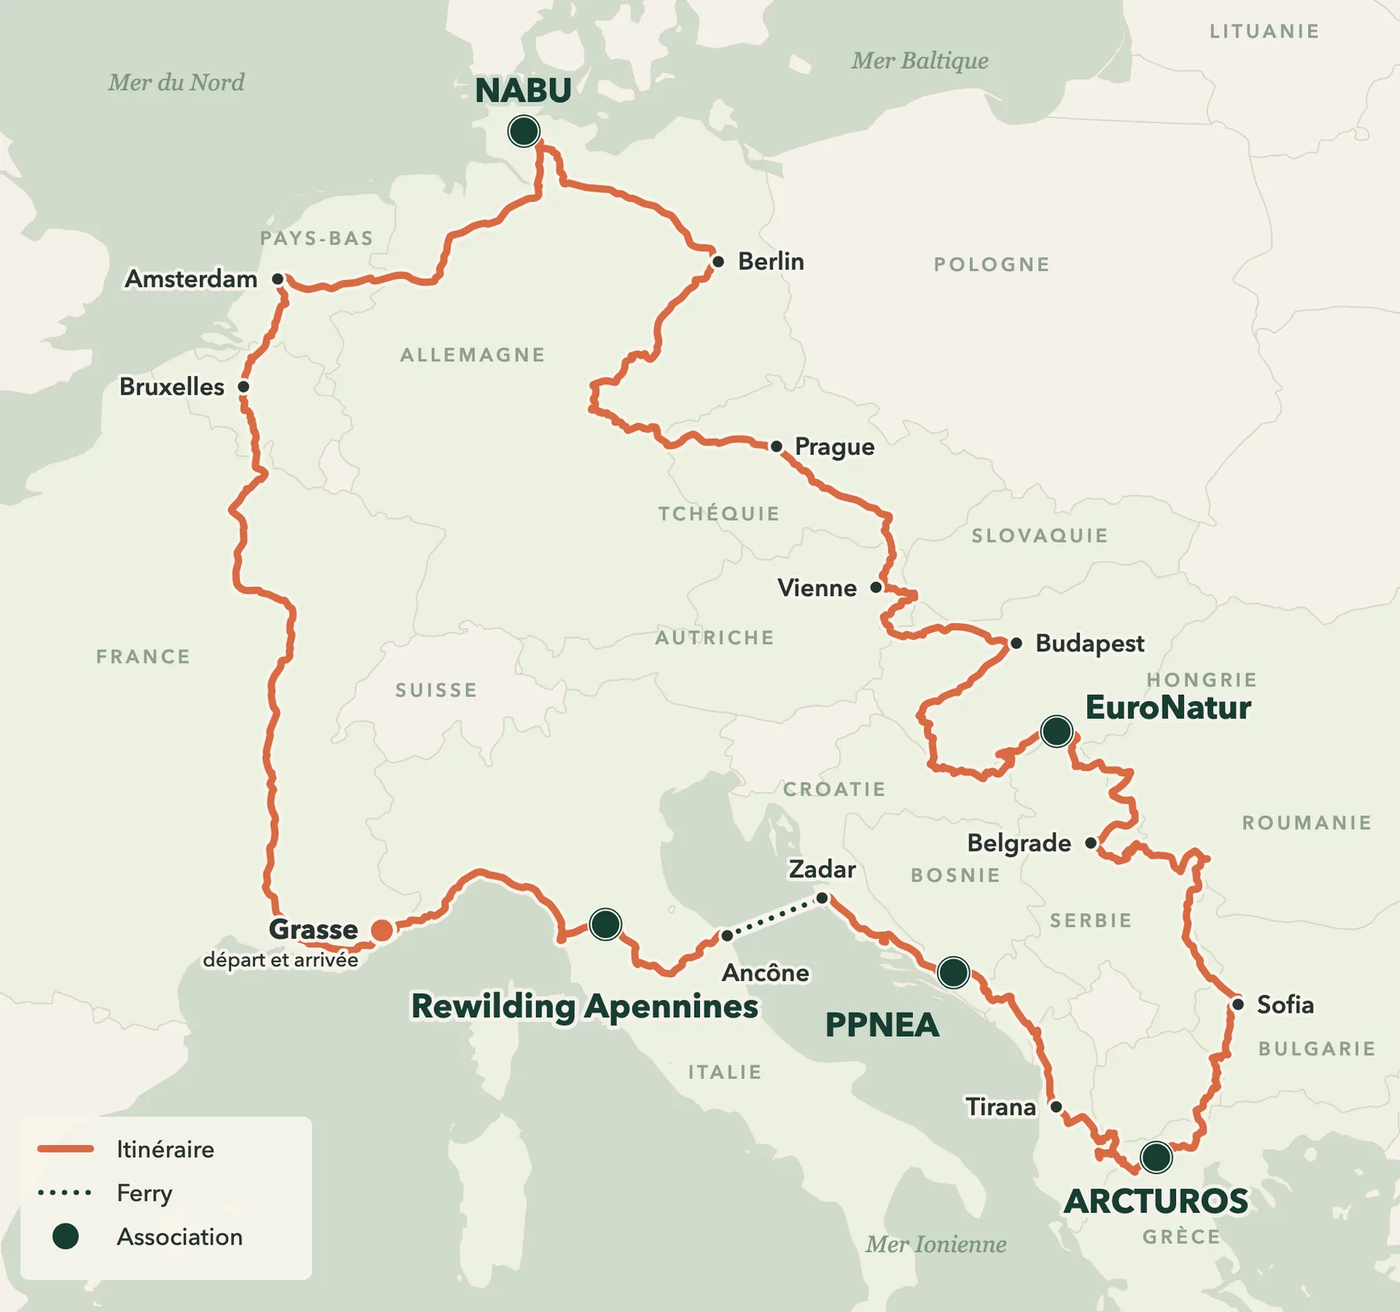
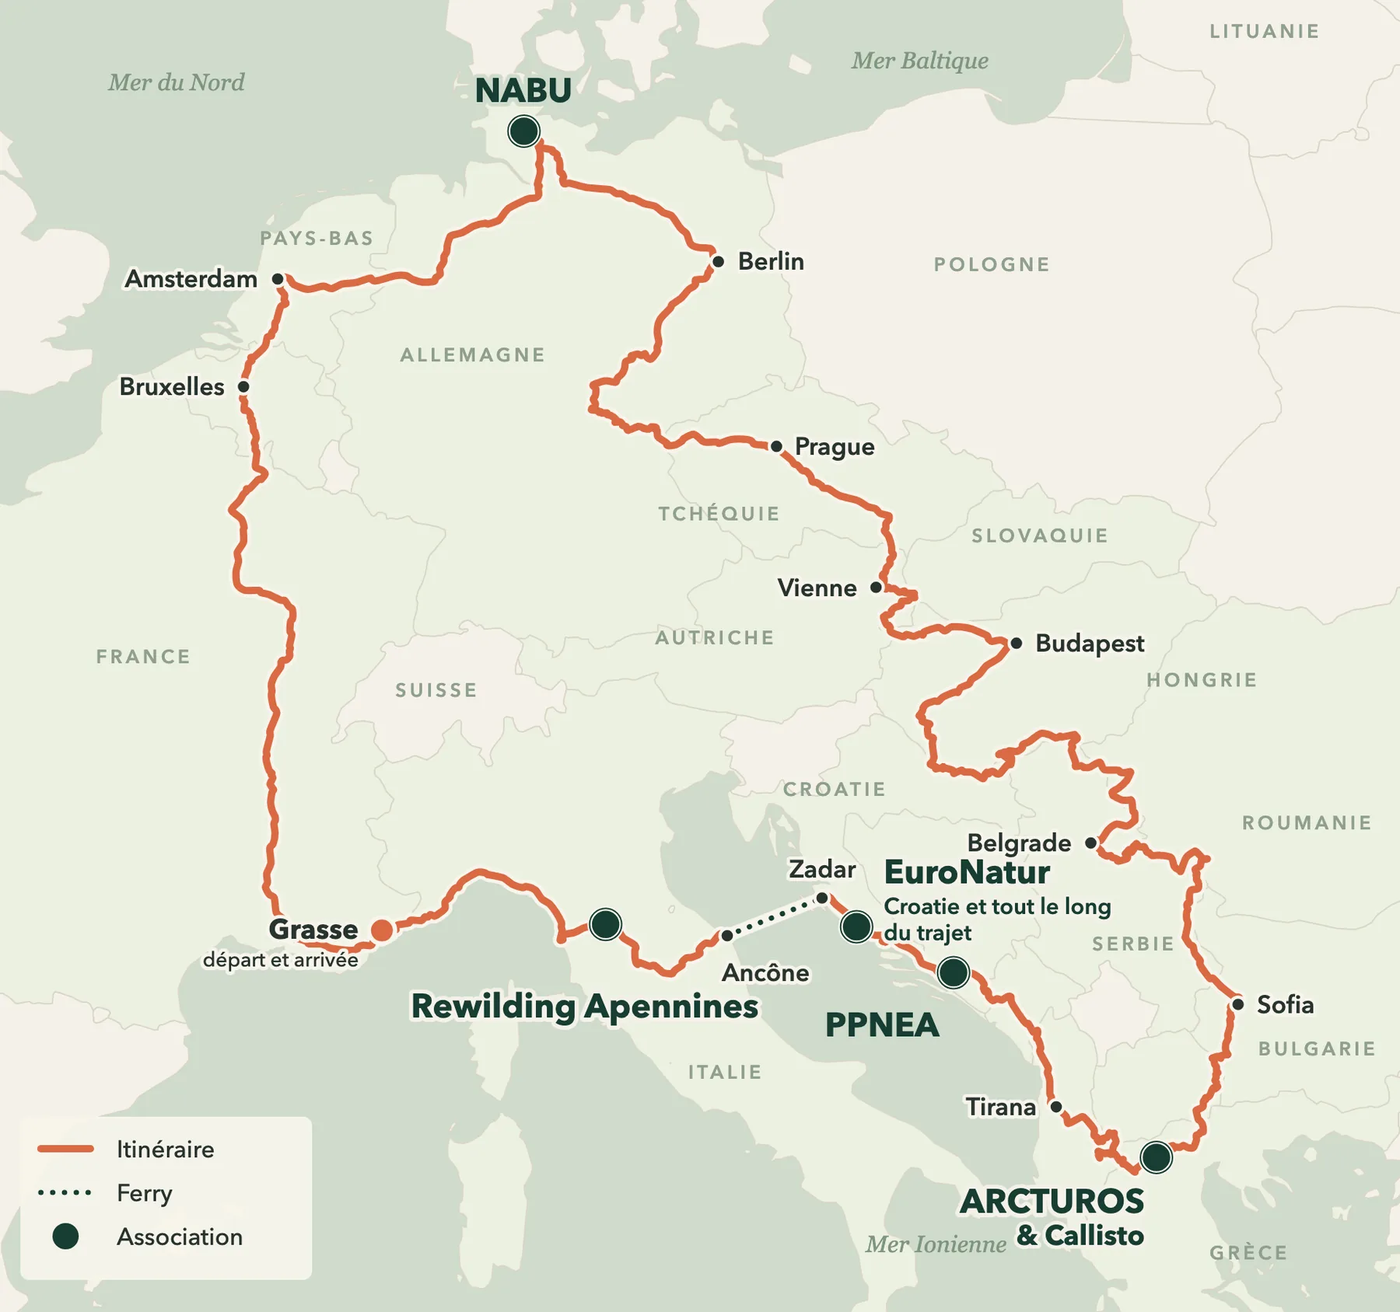
Site : URL triade.europe.com, EuroNatur en Croatie (tout le long du trajet), Callisto sur la carte
- URL du site : triade.europe.com (og:image, admin, guide, llms/robots/sitemap)
- EuroNatur : Hongrie retirée, Croatie + tout le long du trajet (associations, étapes, traductions)
- Carte de l'itinéraire refaite : « ARCTUROS & Callisto », EuroNatur en Croatie

Changed region(s): [[0.5911, 0.6469, 0.84, 0.7393], [0.6844, 0.8934, 0.9022, 0.955], [0.7467, 0.5237, 0.9022, 0.5853]]

diff --git a/index.html b/index.html
@@ -12,7 +12,7 @@
 <meta property="og:site_name" content="TRIADE">
 <meta property="og:title" content="TRIADE — À vélo pour celles et ceux qui protègent le vivant">
 <meta property="og:description" content="Trois étudiants, trois vélos, six associations de protection de la nature à travers l’Europe. De mars à août 2027.">
-<meta property="og:image" content="https://tanguyruel.github.io/triade/assets/img/og-image.jpg">
+<meta property="og:image" content="https://triade.europe.com/assets/img/og-image.jpg">
 <meta name="twitter:card" content="summary_large_image">
 <link rel="preload" href="assets/fonts/bodoni-moda-latin-wght-normal.woff2" as="font" type="font/woff2" crossorigin>
 <link rel="preload" href="assets/fonts/jost-latin-wght-normal.woff2" as="font" type="font/woff2" crossorigin>
@@ -26,7 +26,7 @@
 <div id="site-header"></div>
 
 <main id="contenu" tabindex="-1">
-<!--STATIQUE:début--><noscript><h1>TRIADE — Three Riders In Adventure Discovering Europe</h1><h2>Une boucle européenne pour rencontrer ceux qui protègent la nature</h2><p>Nous sommes trois étudiants de l’Institut Agro Montpellier. Pendant 6 mois, nous traversons l’Europe à vélo pour rencontrer six associations qui protègent des espèces menacées (ours, lynx, loup, cigognes) et raconter leur travail.</p><p>3 étudiants, 6 associations, 7 500 km prévus, 18 pays prévus, de mars à août 2027 (départ début mars 2027).</p><h2>Les associations</h2><ul><li><strong>Rewilding Apennines</strong> — Ours brun marsicain (Italie, Début mars) <a href="https://rewilding-apennines.com">https://rewilding-apennines.com</a></li><li><strong>PPNEA</strong> — Lynx des Balkans (Albanie, Fin mars) <a href="https://ppnea.org">https://ppnea.org</a></li><li><strong>ARCTUROS &amp; Callisto</strong> — Ours brun (Grèce, Début avril) <a href="https://www.arcturos.gr">https://www.arcturos.gr</a></li><li><strong>EuroNatur</strong> — Ceinture verte européenne (Hongrie, Début mai) <a href="https://www.euronatur.org">https://www.euronatur.org</a></li><li><strong>NABU</strong> — Cigognes et oiseaux (Allemagne, Du 20 juin au 5 juillet environ) <a href="https://www.nabu.de">https://www.nabu.de</a></li></ul><h2>Ils nous soutiennent</h2><ul><li><strong>Komoot</strong> — Notre itinéraire est tracé sur Komoot. <a href="https://www.komoot.com">https://www.komoot.com</a></li></ul><h2>Contact</h2><ul><li>E-mail : <a href="mailto:triade.europe@gmail.com">triade.europe@gmail.com</a></li><li>Instagram : <a href="https://www.instagram.com/triade.europe">@triade.europe</a></li><li>TikTok : <a href="https://www.tiktok.com/@triade692">@triade692</a></li><li>Komoot : <a href="https://www.komoot.com/user/6295100499846">Itinéraire sur Komoot</a></li></ul><p>Autres pages : <a href="route.html">Sur la route</a>, <a href="associations.html">Associations</a>, <a href="soutiens.html">Ils nous soutiennent</a>, <a href="llms.txt">résumé en texte</a>.</p></noscript><!--STATIQUE:fin-->
+<!--STATIQUE:début--><noscript><h1>TRIADE — Three Riders In Adventure Discovering Europe</h1><h2>Une boucle européenne pour rencontrer ceux qui protègent la nature</h2><p>Nous sommes trois étudiants de l’Institut Agro Montpellier. Pendant 6 mois, nous traversons l’Europe à vélo pour rencontrer six associations qui protègent des espèces menacées (ours, lynx, loup, cigognes) et raconter leur travail.</p><p>3 étudiants, 6 associations, 7 500 km prévus, 18 pays prévus, de mars à août 2027 (départ début mars 2027).</p><h2>Les associations</h2><ul><li><strong>Rewilding Apennines</strong> — Ours brun marsicain (Italie, Début mars) <a href="https://rewilding-apennines.com">https://rewilding-apennines.com</a></li><li><strong>PPNEA</strong> — Lynx des Balkans (Albanie, Fin mars) <a href="https://ppnea.org">https://ppnea.org</a></li><li><strong>ARCTUROS &amp; Callisto</strong> — Ours brun (Grèce, Début avril) <a href="https://www.arcturos.gr">https://www.arcturos.gr</a></li><li><strong>EuroNatur</strong> — Ceinture verte européenne (Croatie, Tout le long du trajet) <a href="https://www.euronatur.org">https://www.euronatur.org</a></li><li><strong>NABU</strong> — Cigognes et oiseaux (Allemagne, Du 20 juin au 5 juillet environ) <a href="https://www.nabu.de">https://www.nabu.de</a></li></ul><h2>Ils nous soutiennent</h2><ul><li><strong>Komoot</strong> — Notre itinéraire est tracé sur Komoot. <a href="https://www.komoot.com">https://www.komoot.com</a></li></ul><h2>Contact</h2><ul><li>E-mail : <a href="mailto:triade.europe@gmail.com">triade.europe@gmail.com</a></li><li>Instagram : <a href="https://www.instagram.com/triade.europe">@triade.europe</a></li><li>TikTok : <a href="https://www.tiktok.com/@triade692">@triade692</a></li><li>Komoot : <a href="https://www.komoot.com/user/6295100499846">Itinéraire sur Komoot</a></li></ul><p>Autres pages : <a href="route.html">Sur la route</a>, <a href="associations.html">Associations</a>, <a href="soutiens.html">Ils nous soutiennent</a>, <a href="llms.txt">résumé en texte</a>.</p></noscript><!--STATIQUE:fin-->
 
   <!-- ACCUEIL : grand TRIADE sur le bandeau de paysages (content/bandeau.json) -->
   <section class="hero hero--bandeau bandeau" id="bandeau">

diff --git a/associations.html b/associations.html
@@ -12,7 +12,7 @@
 <meta property="og:site_name" content="TRIADE">
 <meta property="og:title" content="Les associations — TRIADE">
 <meta property="og:description" content="Six associations pour protéger le vivant, et leurs témoignages.">
-<meta property="og:image" content="https://tanguyruel.github.io/triade/assets/img/og-image.jpg">
+<meta property="og:image" content="https://triade.europe.com/assets/img/og-image.jpg">
 <meta name="twitter:card" content="summary_large_image">
 <link rel="preload" href="assets/fonts/bodoni-moda-latin-wght-normal.woff2" as="font" type="font/woff2" crossorigin>
 <link rel="preload" href="assets/fonts/jost-latin-wght-normal.woff2" as="font" type="font/woff2" crossorigin>
@@ -26,7 +26,7 @@
 <div id="site-header"></div>
 
 <main id="contenu" tabindex="-1" class="page-dessins">
-<!--STATIQUE:début--><noscript><h1>Les associations rencontrées</h1><ul><li><strong>Rewilding Apennines</strong> — Ours brun marsicain (Italie, Début mars) : Une association qui œuvre au retour d’une nature sauvage dans les Apennins centraux, où vit l’ours brun marsicain, l’un des ours les plus menacés d’Europe. <a href="https://rewilding-apennines.com">https://rewilding-apennines.com</a></li><li><strong>PPNEA</strong> — Lynx des Balkans (Albanie, Fin mars) : Protection and Preservation of Natural Environment in Albania : une association albanaise de protection de la nature, engagée notamment pour le lynx des Balkans, un des félins les plus rares d’Europe. <a href="https://ppnea.org">https://ppnea.org</a></li><li><strong>ARCTUROS &amp; Callisto</strong> — Ours brun (Grèce, Début avril) : Deux associations grecques qui travaillent ensemble, et avec lesquelles nous travaillerons en même temps. ARCTUROS protège l’ours brun et le loup et accueille des ours secourus dans son refuge de Nymfaio. Callisto est une organisation environnementale grecque pour la faune sauvage et la nature. <a href="https://www.arcturos.gr">https://www.arcturos.gr</a></li><li><strong>EuroNatur</strong> — Ceinture verte européenne (Hongrie, Début mai) : Une fondation européenne de protection de la nature, qui travaille à faire de l’ancien rideau de fer, de la mer de Barents à la mer Noire, un corridor de nature : la Ceinture verte européenne. <a href="https://www.euronatur.org">https://www.euronatur.org</a></li><li><strong>NABU</strong> — Cigognes et oiseaux (Allemagne, Du 20 juin au 5 juillet environ) : Le NABU est la plus grande association allemande de protection de la nature. Son Michael-Otto-Institut, à Bergenhusen, étudie notamment les cigognes blanches. <a href="https://www.nabu.de">https://www.nabu.de</a></li></ul></noscript><!--STATIQUE:fin-->
+<!--STATIQUE:début--><noscript><h1>Les associations rencontrées</h1><ul><li><strong>Rewilding Apennines</strong> — Ours brun marsicain (Italie, Début mars) : Une association qui œuvre au retour d’une nature sauvage dans les Apennins centraux, où vit l’ours brun marsicain, l’un des ours les plus menacés d’Europe. <a href="https://rewilding-apennines.com">https://rewilding-apennines.com</a></li><li><strong>PPNEA</strong> — Lynx des Balkans (Albanie, Fin mars) : Protection and Preservation of Natural Environment in Albania : une association albanaise de protection de la nature, engagée notamment pour le lynx des Balkans, un des félins les plus rares d’Europe. <a href="https://ppnea.org">https://ppnea.org</a></li><li><strong>ARCTUROS &amp; Callisto</strong> — Ours brun (Grèce, Début avril) : Deux associations grecques qui travaillent ensemble, et avec lesquelles nous travaillerons en même temps. ARCTUROS protège l’ours brun et le loup et accueille des ours secourus dans son refuge de Nymfaio. Callisto est une organisation environnementale grecque pour la faune sauvage et la nature. <a href="https://www.arcturos.gr">https://www.arcturos.gr</a></li><li><strong>EuroNatur</strong> — Ceinture verte européenne (Croatie, Tout le long du trajet) : Une fondation européenne de protection de la nature, qui travaille à faire de l’ancien rideau de fer, de la mer de Barents à la mer Noire, un corridor de nature : la Ceinture verte européenne. <a href="https://www.euronatur.org">https://www.euronatur.org</a></li><li><strong>NABU</strong> — Cigognes et oiseaux (Allemagne, Du 20 juin au 5 juillet environ) : Le NABU est la plus grande association allemande de protection de la nature. Son Michael-Otto-Institut, à Bergenhusen, étudie notamment les cigognes blanches. <a href="https://www.nabu.de">https://www.nabu.de</a></li></ul></noscript><!--STATIQUE:fin-->
   <!-- Bandeau de paysages du trajet (content/bandeau.json) ; les fiches commencent dès le bas du bandeau -->
   <section class="bandeau bandeau--page" id="bandeau">
     <div class="wrap">

diff --git a/route.html b/route.html
@@ -12,7 +12,7 @@
 <meta property="og:site_name" content="TRIADE">
 <meta property="og:title" content="Sur la route — TRIADE">
 <meta property="og:description" content="Notre position en direct, nos photos, nos vidéos et nos étapes.">
-<meta property="og:image" content="https://tanguyruel.github.io/triade/assets/img/og-image.jpg">
+<meta property="og:image" content="https://triade.europe.com/assets/img/og-image.jpg">
 <meta name="twitter:card" content="summary_large_image">
 <link rel="preload" href="assets/fonts/bodoni-moda-latin-wght-normal.woff2" as="font" type="font/woff2" crossorigin>
 <link rel="preload" href="assets/fonts/jost-latin-wght-normal.woff2" as="font" type="font/woff2" crossorigin>
@@ -26,7 +26,7 @@
 <div id="site-header"></div>
 
 <main id="contenu" tabindex="-1">
-<!--STATIQUE:début--><noscript><h1>Sur la route : position, photos et étape par étape</h1><p>3 étudiants, 6 associations, 7 500 km prévus, 18 pays prévus, de mars à août 2027 (départ début mars 2027).</p><h2>Étape par étape (prévu)</h2><ol><li>Grasse — France · départ (Début mars, km 0)</li><li>Rewilding Apennines — Région de Florence, Italie (Début mars, km 510, association partenaire)</li><li>Ancône — Puis ferry vers Zadar, Croatie (Mi-mars, km 800)</li><li>PPNEA — Lynx des Balkans · Albanie (Fin mars, km 1 110, association partenaire)</li><li>Tirana — Albanie (Fin mars, km 1 460)</li><li>ARCTUROS &amp; Callisto — Région de Florina, Grèce (Début avril, km 1 880, association partenaire)</li><li>Sofia — Bulgarie (Mi-avril, km 2 320)</li><li>Belgrade — Serbie (Fin avril, km 2 870)</li><li>EuroNatur — Région de Szeged, Hongrie (Début mai, km 3 220, association partenaire)</li><li>Budapest — Hongrie (Mi-mai, km 3 840)</li><li>Vienne — Autriche (Fin mai, km 4 220)</li><li>Prague — Tchéquie (Début juin, km 4 560)</li><li>Berlin — Allemagne (Mi-juin, km 5 250)</li><li>NABU · Michael-Otto-Institut — Bergenhusen, Allemagne (Du 20 juin au 5 juillet environ, km 5 620, association partenaire)</li><li>Amsterdam — Pays-Bas (Mi-juillet, km 6 160)</li><li>Bruxelles — Belgique (Mi-juillet, km 6 350)</li><li>Grasse — France · arrivée (Début août, km 7 520)</li></ol><h2>Suivre</h2><ul><li>E-mail : <a href="mailto:triade.europe@gmail.com">triade.europe@gmail.com</a></li><li>Instagram : <a href="https://www.instagram.com/triade.europe">@triade.europe</a></li><li>TikTok : <a href="https://www.tiktok.com/@triade692">@triade692</a></li><li>Komoot : <a href="https://www.komoot.com/user/6295100499846">Itinéraire sur Komoot</a></li></ul></noscript><!--STATIQUE:fin-->
+<!--STATIQUE:début--><noscript><h1>Sur la route : position, photos et étape par étape</h1><p>3 étudiants, 6 associations, 7 500 km prévus, 18 pays prévus, de mars à août 2027 (départ début mars 2027).</p><h2>Étape par étape (prévu)</h2><ol><li>Grasse — France · départ (Début mars, km 0)</li><li>Rewilding Apennines — Région de Florence, Italie (Début mars, km 510, association partenaire)</li><li>Ancône — Puis ferry vers Zadar, Croatie (Mi-mars, km 800)</li><li>EuroNatur — Croatie, puis tout le long du trajet (Tout le long du trajet, association partenaire)</li><li>PPNEA — Lynx des Balkans · Albanie (Fin mars, km 1 110, association partenaire)</li><li>Tirana — Albanie (Fin mars, km 1 460)</li><li>ARCTUROS &amp; Callisto — Région de Florina, Grèce (Début avril, km 1 880, association partenaire)</li><li>Sofia — Bulgarie (Mi-avril, km 2 320)</li><li>Belgrade — Serbie (Fin avril, km 2 870)</li><li>Budapest — Hongrie (Mi-mai, km 3 840)</li><li>Vienne — Autriche (Fin mai, km 4 220)</li><li>Prague — Tchéquie (Début juin, km 4 560)</li><li>Berlin — Allemagne (Mi-juin, km 5 250)</li><li>NABU · Michael-Otto-Institut — Bergenhusen, Allemagne (Du 20 juin au 5 juillet environ, km 5 620, association partenaire)</li><li>Amsterdam — Pays-Bas (Mi-juillet, km 6 160)</li><li>Bruxelles — Belgique (Mi-juillet, km 6 350)</li><li>Grasse — France · arrivée (Début août, km 7 520)</li></ol><h2>Suivre</h2><ul><li>E-mail : <a href="mailto:triade.europe@gmail.com">triade.europe@gmail.com</a></li><li>Instagram : <a href="https://www.instagram.com/triade.europe">@triade.europe</a></li><li>TikTok : <a href="https://www.tiktok.com/@triade692">@triade692</a></li><li>Komoot : <a href="https://www.komoot.com/user/6295100499846">Itinéraire sur Komoot</a></li></ul></noscript><!--STATIQUE:fin-->
   <!-- Titre de la page -->
   <section class="section section--tight hors-lecture">
     <div class="wrap">

diff --git a/assets/js/langues.js b/assets/js/langues.js
@@ -254,12 +254,13 @@
   C(`Puis ferry vers Zadar, Croatie`, `Then ferry to Zadar, Croatia`, `Dann Fähre nach Zadar, Kroatien`, `Poi traghetto per Zara, Croazia`, `Στη συνέχεια πλοίο για το Ζαντάρ, Κροατία`);
   C(`Lynx des Balkans · Albanie`, `Balkan lynx · Albania`, `Balkanluchs · Albanien`, `Lince dei Balcani · Albania`, `Λύγκας των Βαλκανίων · Αλβανία`);
   C(`Région de Florina, Grèce`, `Florina region, Greece`, `Region Florina, Griechenland`, `Zona di Florina, Grecia`, `Περιοχή Φλώρινας, Ελλάδα`);
-  C(`Région de Szeged, Hongrie`, `Szeged region, Hungary`, `Region Szeged, Ungarn`, `Zona di Szeged, Ungheria`, `Περιοχή Σέγκεντ, Ουγγαρία`);
   C(`Bergenhusen, Allemagne`, `Bergenhusen, Germany`, `Bergenhusen, Deutschland`, `Bergenhusen, Germania`, `Μπέργκενχουζεν, Γερμανία`);
 
   // Périodes
   C(`Début mars`, `Early March`, `Anfang März`, `Inizio marzo`, `Αρχές Μαρτίου`);
   C(`Mi-mars`, `Mid-March`, `Mitte März`, `Metà marzo`, `Μέσα Μαρτίου`);
+  C(`Tout le long du trajet`, `All along the route`, `Auf der gesamten Strecke`, `Lungo tutto il percorso`, `Σε όλη τη διαδρομή`);
+  C(`Croatie, puis tout le long du trajet`, `Croatia, then all along the route`, `Kroatien, dann auf der gesamten Strecke`, `Croazia, poi lungo tutto il percorso`, `Κροατία, και στη συνέχεια σε όλη τη διαδρομή`);
   C(`Fin mars`, `Late March`, `Ende März`, `Fine marzo`, `Τέλη Μαρτίου`);
   C(`Début avril`, `Early April`, `Anfang April`, `Inizio aprile`, `Αρχές Απριλίου`);
   C(`Mi-avril`, `Mid-April`, `Mitte April`, `Metà aprile`, `Μέσα Απριλίου`);
@@ -292,7 +293,6 @@
   C(`Cigognes et oiseaux`, `Storks and birds`, `Störche und Vögel`, `Cicogne e uccelli`, `Πελαργοί και πουλιά`);
   C(`Apennins centraux, région de Florence`, `Central Apennines, Florence region`, `Zentralapennin, Region Florenz`, `Appennino centrale, zona di Firenze`, `Κεντρικοί Απέννινοι, περιοχή Φλωρεντίας`);
   C(`Région de Florina (Nymfaio) et Thessalonique`, `Florina region (Nymfaio) and Thessaloniki`, `Region Florina (Nymfaio) und Thessaloniki`, `Zona di Florina (Nymfaio) e Salonicco`, `Περιοχή Φλώρινας (Νυμφαίο) και Θεσσαλονίκη`);
-  C(`Région de Szeged`, `Szeged region`, `Region Szeged`, `Zona di Szeged`, `Περιοχή Σέγκεντ`);
 
   // Associations : présentations
   C(`Une association qui œuvre au retour d’une nature sauvage dans les Apennins centraux, où vit l’ours brun marsicain, l’un des ours les plus menacés d’Europe.`,

diff --git a/rencontres.html b/rencontres.html
@@ -4,7 +4,7 @@
 <meta charset="utf-8">
 <meta name="viewport" content="width=device-width, initial-scale=1">
 <title>Rencontres et interviews — TRIADE</title>
-<meta name="description" content="Les rencontres de TRIADE : les équipes qui protègent le vivant, en Italie, en Albanie, en Grèce, en Hongrie et en Allemagne.">
+<meta name="description" content="Les rencontres de TRIADE : les équipes qui protègent le vivant, en Italie, en Albanie, en Grèce, en Croatie et en Allemagne.">
 <meta name="theme-color" content="#F7F4EB">
 <link rel="icon" href="assets/img/favicon.png">
 <link rel="apple-touch-icon" href="assets/img/apple-touch-icon.png">
@@ -12,7 +12,7 @@
 <meta property="og:site_name" content="TRIADE">
 <meta property="og:title" content="Rencontres et interviews — TRIADE">
 <meta property="og:description" content="Les visages et les histoires de celles et ceux qui protègent le vivant.">
-<meta property="og:image" content="https://tanguyruel.github.io/triade/assets/img/og-image.jpg">
+<meta property="og:image" content="https://triade.europe.com/assets/img/og-image.jpg">
 <meta name="twitter:card" content="summary_large_image">
 <link rel="preload" href="assets/fonts/bodoni-moda-latin-wght-normal.woff2" as="font" type="font/woff2" crossorigin>
 <link rel="preload" href="assets/fonts/jost-latin-wght-normal.woff2" as="font" type="font/woff2" crossorigin>

diff --git a/cagnotte.html b/cagnotte.html
@@ -12,7 +12,7 @@
 <meta property="og:site_name" content="TRIADE">
 <meta property="og:title" content="La cagnotte — TRIADE">
 <meta property="og:description" content="Un coup de pouce à celles et ceux qui protègent le vivant.">
-<meta property="og:image" content="https://tanguyruel.github.io/triade/assets/img/og-image.jpg">
+<meta property="og:image" content="https://triade.europe.com/assets/img/og-image.jpg">
 <meta name="twitter:card" content="summary_large_image">
 <link rel="preload" href="assets/fonts/bodoni-moda-latin-wght-normal.woff2" as="font" type="font/woff2" crossorigin>
 <link rel="preload" href="assets/fonts/jost-latin-wght-normal.woff2" as="font" type="font/woff2" crossorigin>

diff --git a/soutiens.html b/soutiens.html
@@ -12,7 +12,7 @@
 <meta property="og:site_name" content="TRIADE">
 <meta property="og:title" content="Ils nous soutiennent — TRIADE">
 <meta property="og:description" content="Celles et ceux qui rendent ce voyage possible.">
-<meta property="og:image" content="https://tanguyruel.github.io/triade/assets/img/og-image.jpg">
+<meta property="og:image" content="https://triade.europe.com/assets/img/og-image.jpg">
 <meta name="twitter:card" content="summary_large_image">
 <link rel="preload" href="assets/fonts/bodoni-moda-latin-wght-normal.woff2" as="font" type="font/woff2" crossorigin>
 <link rel="preload" href="assets/fonts/jost-latin-wght-normal.woff2" as="font" type="font/woff2" crossorigin>

diff --git a/presse.html b/presse.html
@@ -12,7 +12,7 @@
 <meta property="og:site_name" content="TRIADE">
 <meta property="og:title" content="Presse — TRIADE">
 <meta property="og:description" content="Contact, logos et revue de presse.">
-<meta property="og:image" content="https://tanguyruel.github.io/triade/assets/img/og-image.jpg">
+<meta property="og:image" content="https://triade.europe.com/assets/img/og-image.jpg">
 <meta name="twitter:card" content="summary_large_image">
 <link rel="preload" href="assets/fonts/bodoni-moda-latin-wght-normal.woff2" as="font" type="font/woff2" crossorigin>
 <link rel="preload" href="assets/fonts/jost-latin-wght-normal.woff2" as="font" type="font/woff2" crossorigin>

diff --git a/GUIDE.md b/GUIDE.md
@@ -4,7 +4,7 @@ Ce guide est pour toi qui gères la communication. **Tu n'as pas besoin de savoi
 Tout se fait dans un « espace équipe » qui ressemble à un formulaire : tu remplis des cases, tu cliques sur « Enregistrer », et le site se met à jour tout seul en 1 à 2 minutes.
 
 L'espace équipe se trouve à l'adresse du site suivie de `/admin/`
-(exemple : `https://tanguyruel.github.io/triade/admin/`). Il marche très bien depuis un téléphone.
+(exemple : `https://triade.europe.com/admin/`). Il marche très bien depuis un téléphone.
 
 ---
 
